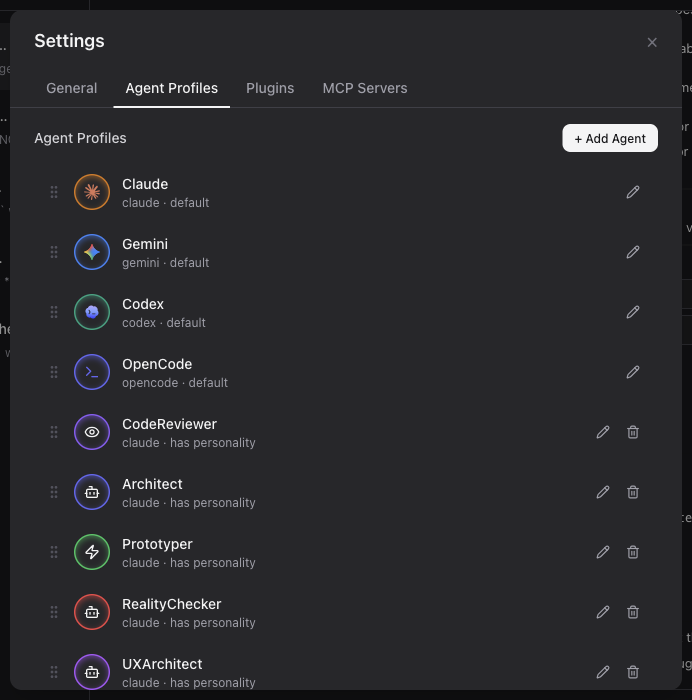
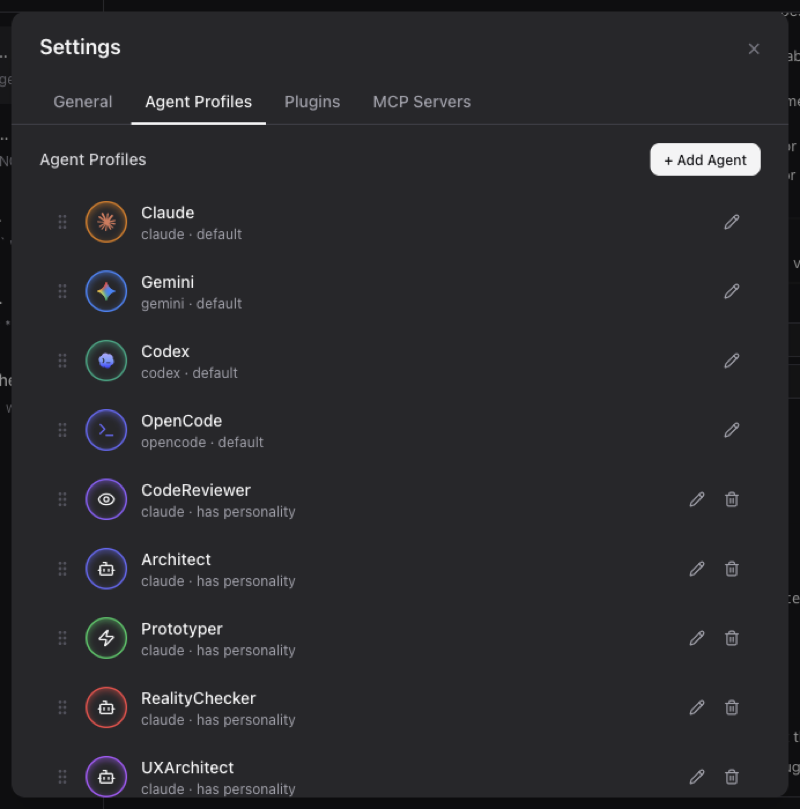
docs: resize screenshots and constrain mobile image width
Resize all screenshots to max 800px wide (400px for portrait mobile
and mentions). Use HTML img tag with width=300 for mobile screenshot
to prevent it from dominating the README.

diff --git a/README.md b/README.md
@@ -116,7 +116,7 @@ Run Entourage on your laptop or a VPS, then pick up where you left off from your
 
 Enable [Tailscale Funnel](https://tailscale.com/kb/1223/funnel) to expose it through a public HTTPS URL. Since Entourage includes a web app manifest and installable PWA support, opening that URL on your phone lets you install it as a standalone app.
 
-![Mobile view](docs/screenshots/mobile.png)
+<img src="docs/screenshots/mobile.png" alt="Mobile view" width="300">
 
 ### Install Globally
 
